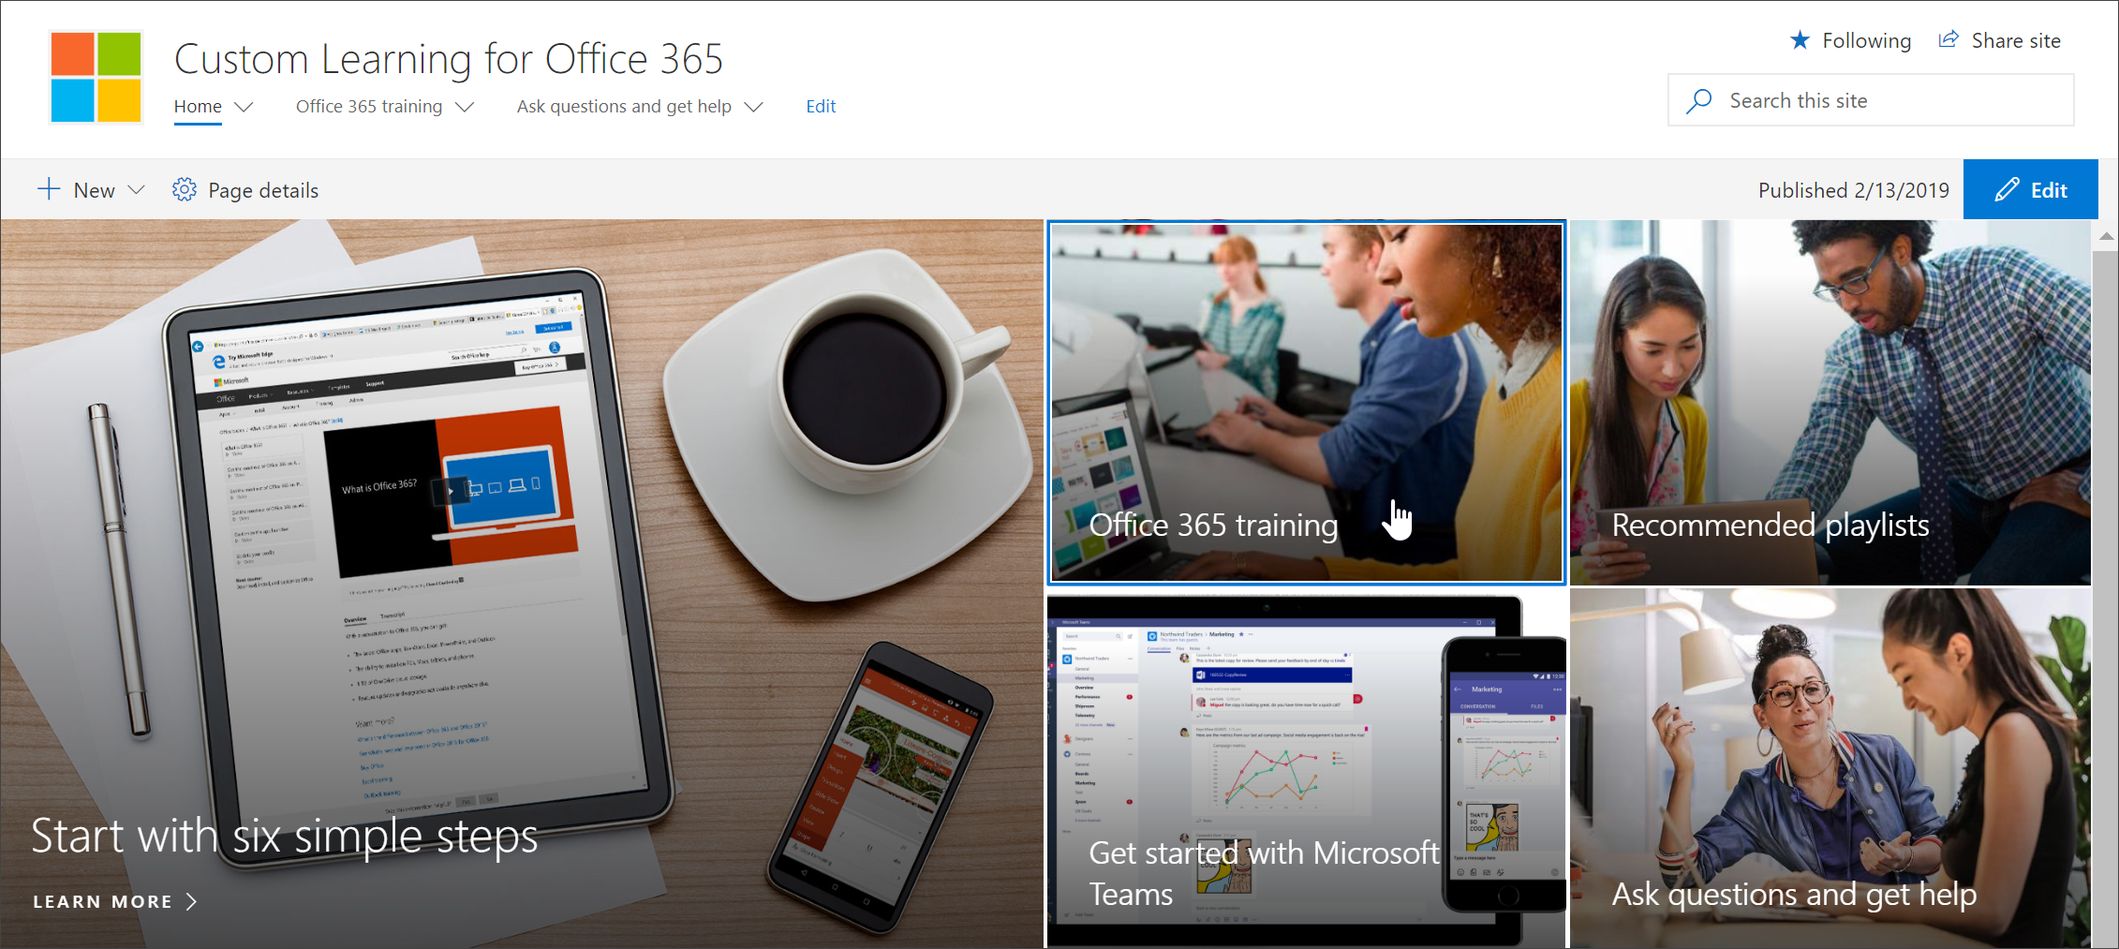
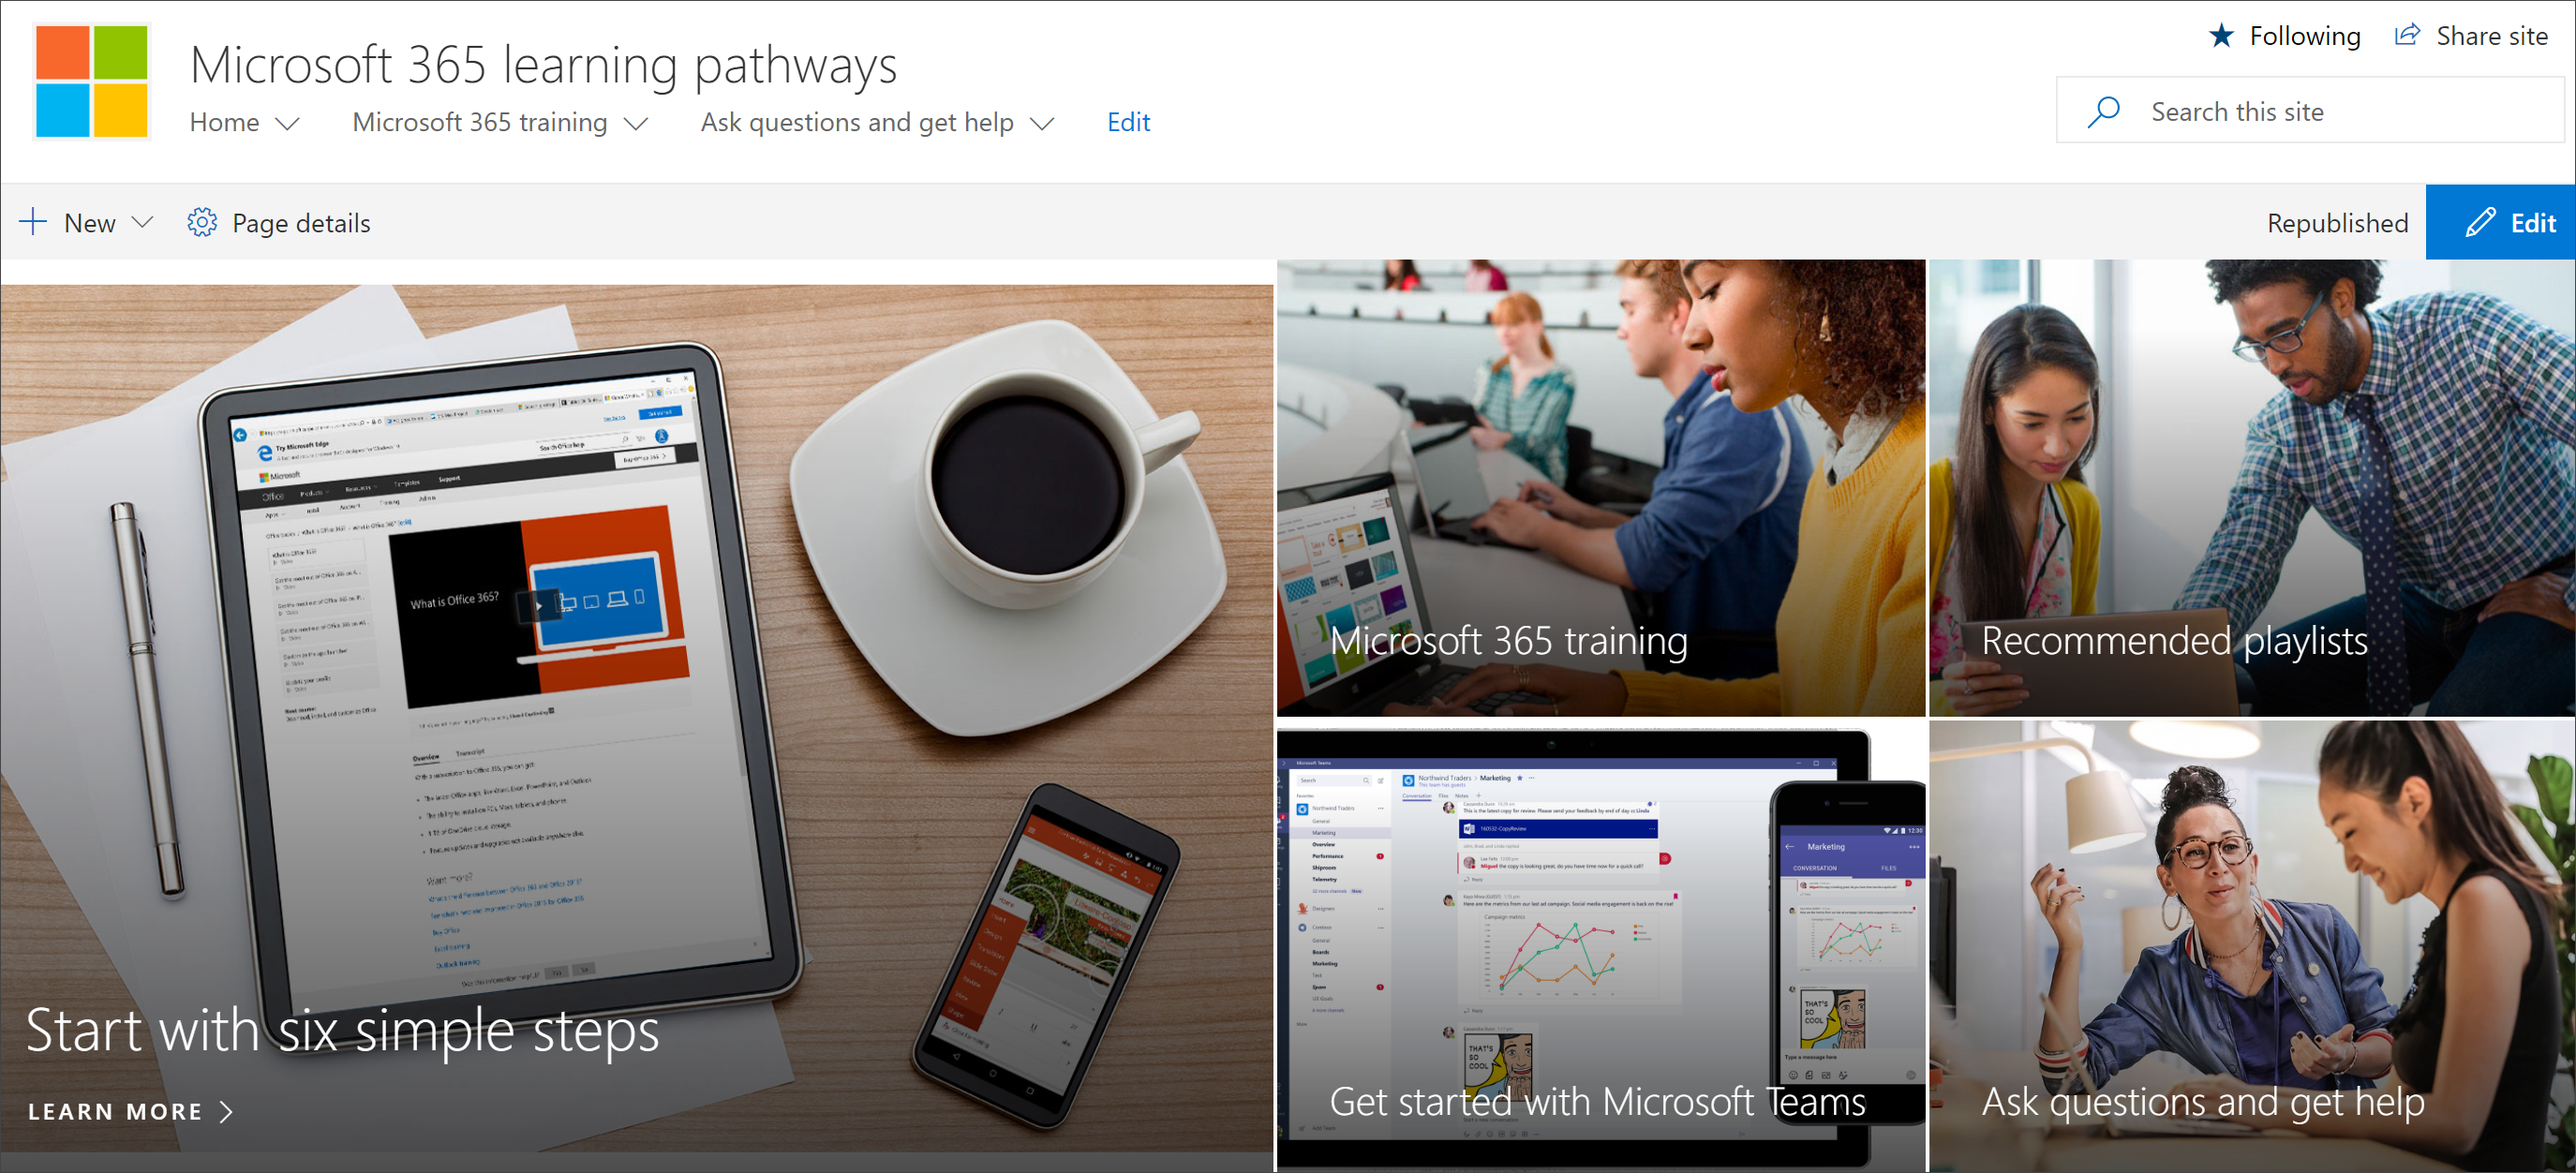
m365 rebrand

diff --git a/CustomLearning/custom_exploresite.md b/CustomLearning/custom_exploresite.md
@@ -3,12 +3,12 @@ author: pkrebs
 ms.author: pkrebs
 title:  Explore the site and default content
 ms.date: 02/10/2019
-description: Explore the Custom Learning site and default content
+description: Explore the learning pathways site and default content
 ---
 
-# Explore the Custom Learning site
+# Explore the learning pathways site
 
-> Note: To explore the Custom Learning site and it's administrative features, you'll need Site Collection Admin, Owner, or Member permissions to the site. If you don't have the neccesary permissions, contact the Site Administrator for the site. The Custom Learning for Office 365 site is hosted in your Office 365 tenant, so you'll need to sign in to Office 365 to get to the site. If you haven’t already signed into Office 365, sign in now. 
+> Note: To explore the learning pathways site and it's administrative features, you'll need Site Collection Admin, Owner, or Member permissions to the site. If you don't have the neccesary permissions, contact the Site Administrator for the site. The learning pathways site is hosted in your Office 365 tenant, so you'll need to sign in to Office 365 to get to the site. If you haven’t already signed into Office 365, sign in now. 
 
 ## Sign in to Office 365 
 
@@ -18,15 +18,15 @@ description: Explore the Custom Learning site and default content
 
 ![cg-introducing.png](media/cg-introducing.png)
 
-## Explore the Custom Learning site
+## Explore the learning pathways site
 
-The Custom Learning site is based on a SharePoint communication template, so it's easy to modify the site to meet the needs of your organization. You can change the site name, logo, menu items, and the content on the pages. One of the pages you'll want to modify for your organization is the Ask questions and get help page. Let's take a look.
+The learning pathways site is based on a SharePoint communication template, so it's easy to modify the site to meet the needs of your organization. You can change the site name, logo, menu items, and the content on the pages. One of the pages you'll want to modify for your organization is the Ask questions and get help page. Let's take a look.
 
 ### View the Ask questions and get help page
 
-The Custom Learning site provides default content to help you get starting building your training and support portal. As an admininstrator or owner of the site, one of the things you’ll want to do is change the links on the **Ask question and get help page** point to resources in your organization. 
+The learning pathways site provides default content to help you get starting building your training and support portal. As an admininstrator or owner of the site, one of the things you’ll want to do is change the links on the **Ask question and get help page** point to resources in your organization. 
 
-1.	From the Custom Learning Home page, click the **Ask questions and get help** menu item.
+1.	From the Microsoft 365 learning pathways Home page, click the **Ask questions and get help** menu item.
 2.	Click the **Edit** button.
 3.	Hover over a Help option image, then click **Edit web part**.
 
@@ -34,18 +34,18 @@ The Custom Learning site provides default content to help you get starting build
 
 For instructions on customizing site pages, see [Customize the site](custom_edithelp.md).
 
-### View the Custom Learning content in the web part
-The Office 365 training page hosts the Custom Learning Web part configured to show all the training available for Custom Learning. 
+### View the learning pathways content in the web part
+The Microsoft 365 training page hosts the learning pathways Web part configured to show all the training available for learning pathways. 
 
 1. Scroll down the page to view all the categories and subcategories.
-2. Kick the tires a bit. Click a few subcategories, and then click a few playlists to get a feel for how Custom Learning content is organized. 
+2. Kick the tires a bit. Click a few subcategories, and then click a few playlists to get a feel for how learning pathways content is organized. 
 
 ![cg-gotoall.png](media/cg-gotoall.png)
 
-For instructions on customizing the Custom Learning web part, see [Customize the Learning Experience](custom_overview.md).
+For instructions on customizing the learning pathways web part, see [Customize the Learning Experience](custom_overview.md).
 
 ### Get a complete site tour and customization guidance
-For a detailed look at Custom Learning, incuding the site, the web part, administrative features, and guidance on how to build unique learning experiences for your environment, see [Customize the Learning Experience](custom_overview.md)
+For a detailed look at learning pathways, incuding the site, the web part, administrative features, and guidance on how to build unique learning experiences for your environment, see [Customize the Learning Experience](custom_overview.md)
 
 ## Next Steps
 - [Customize the Learning Experience](custom_overview.md)
